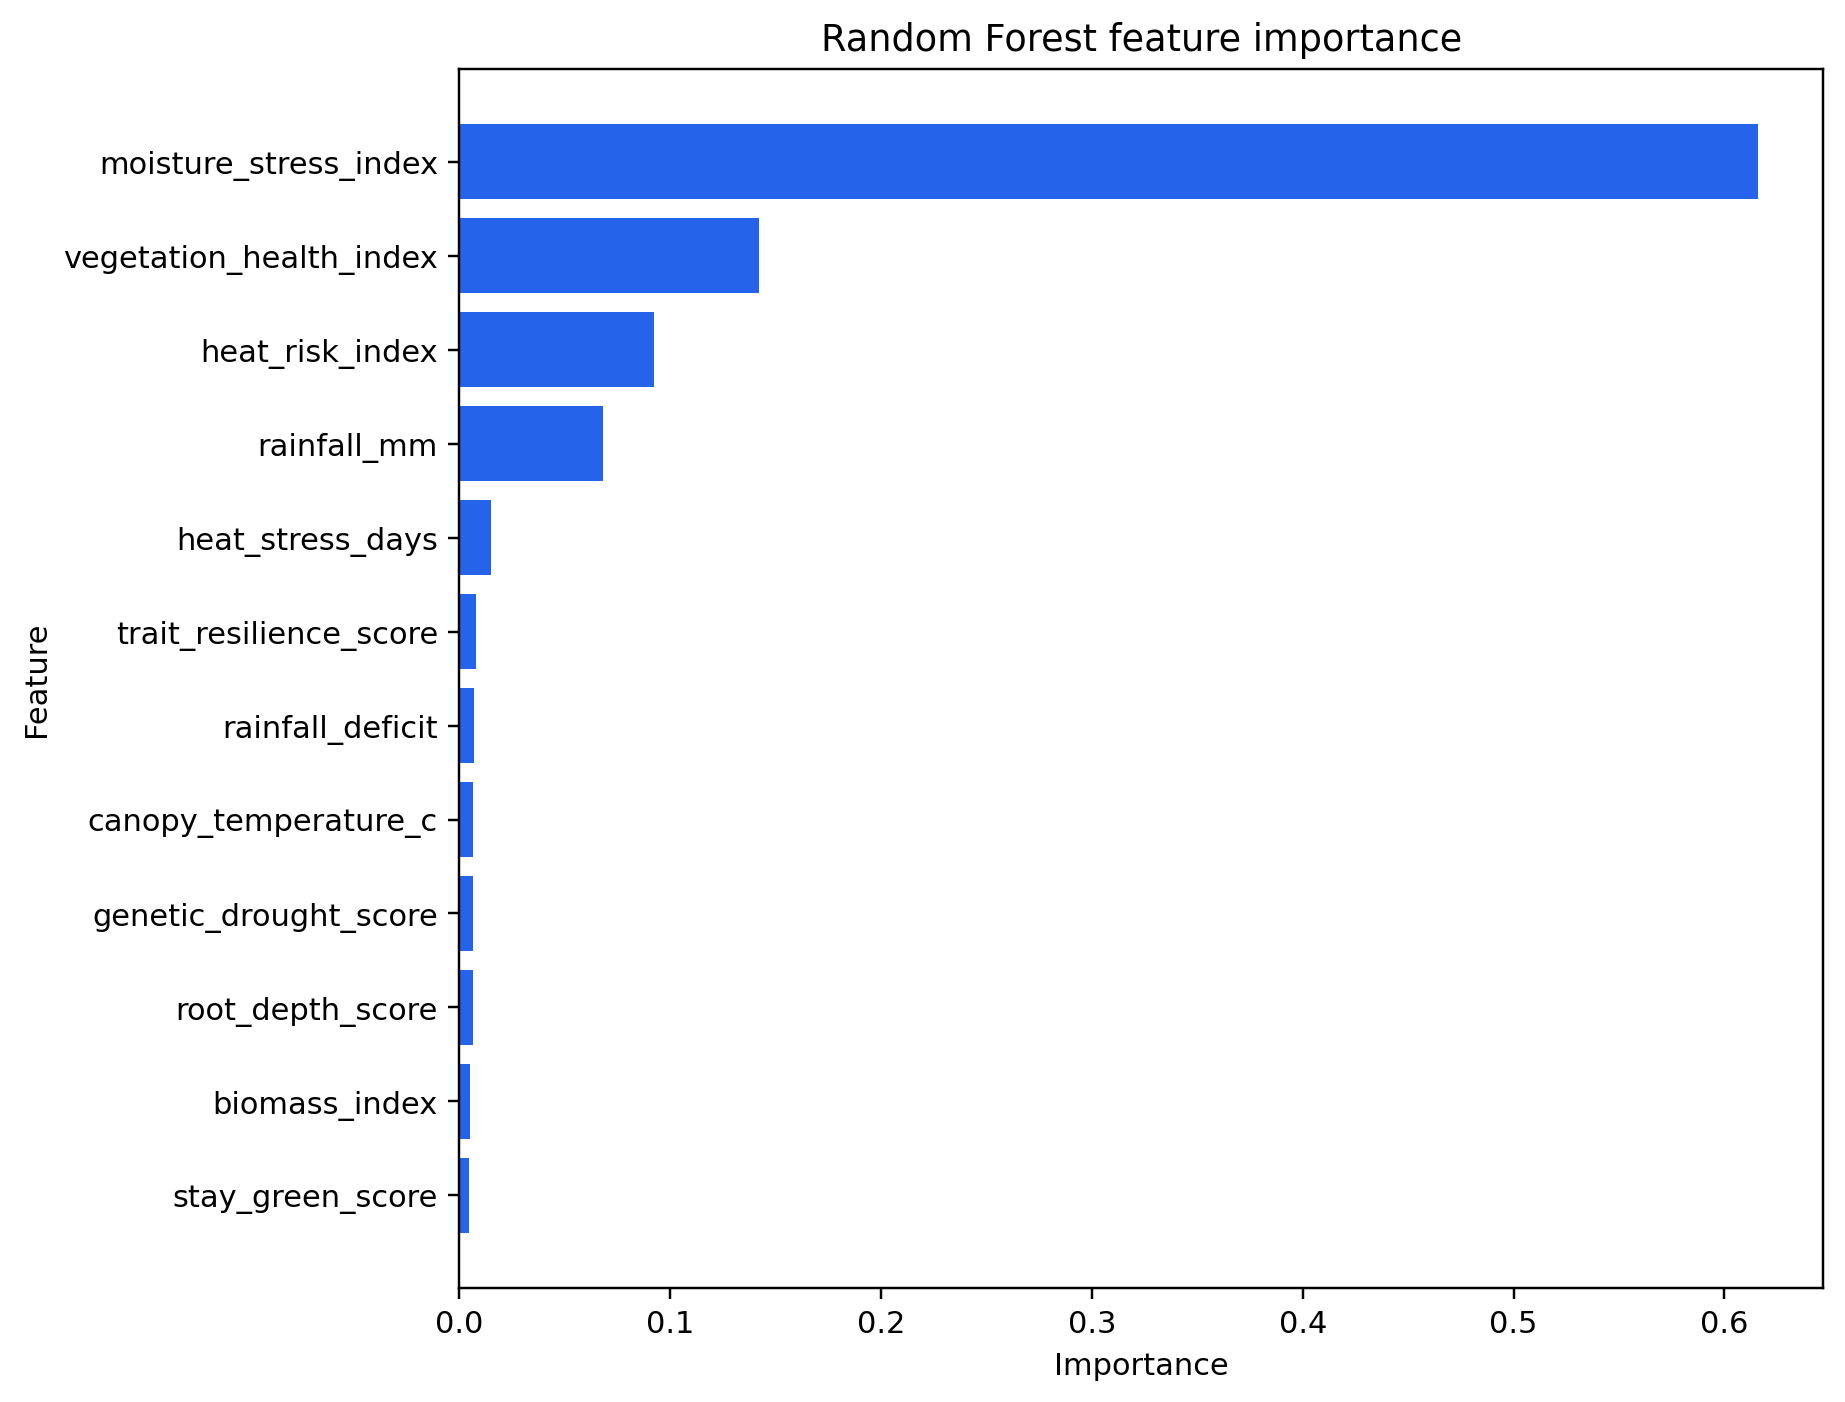
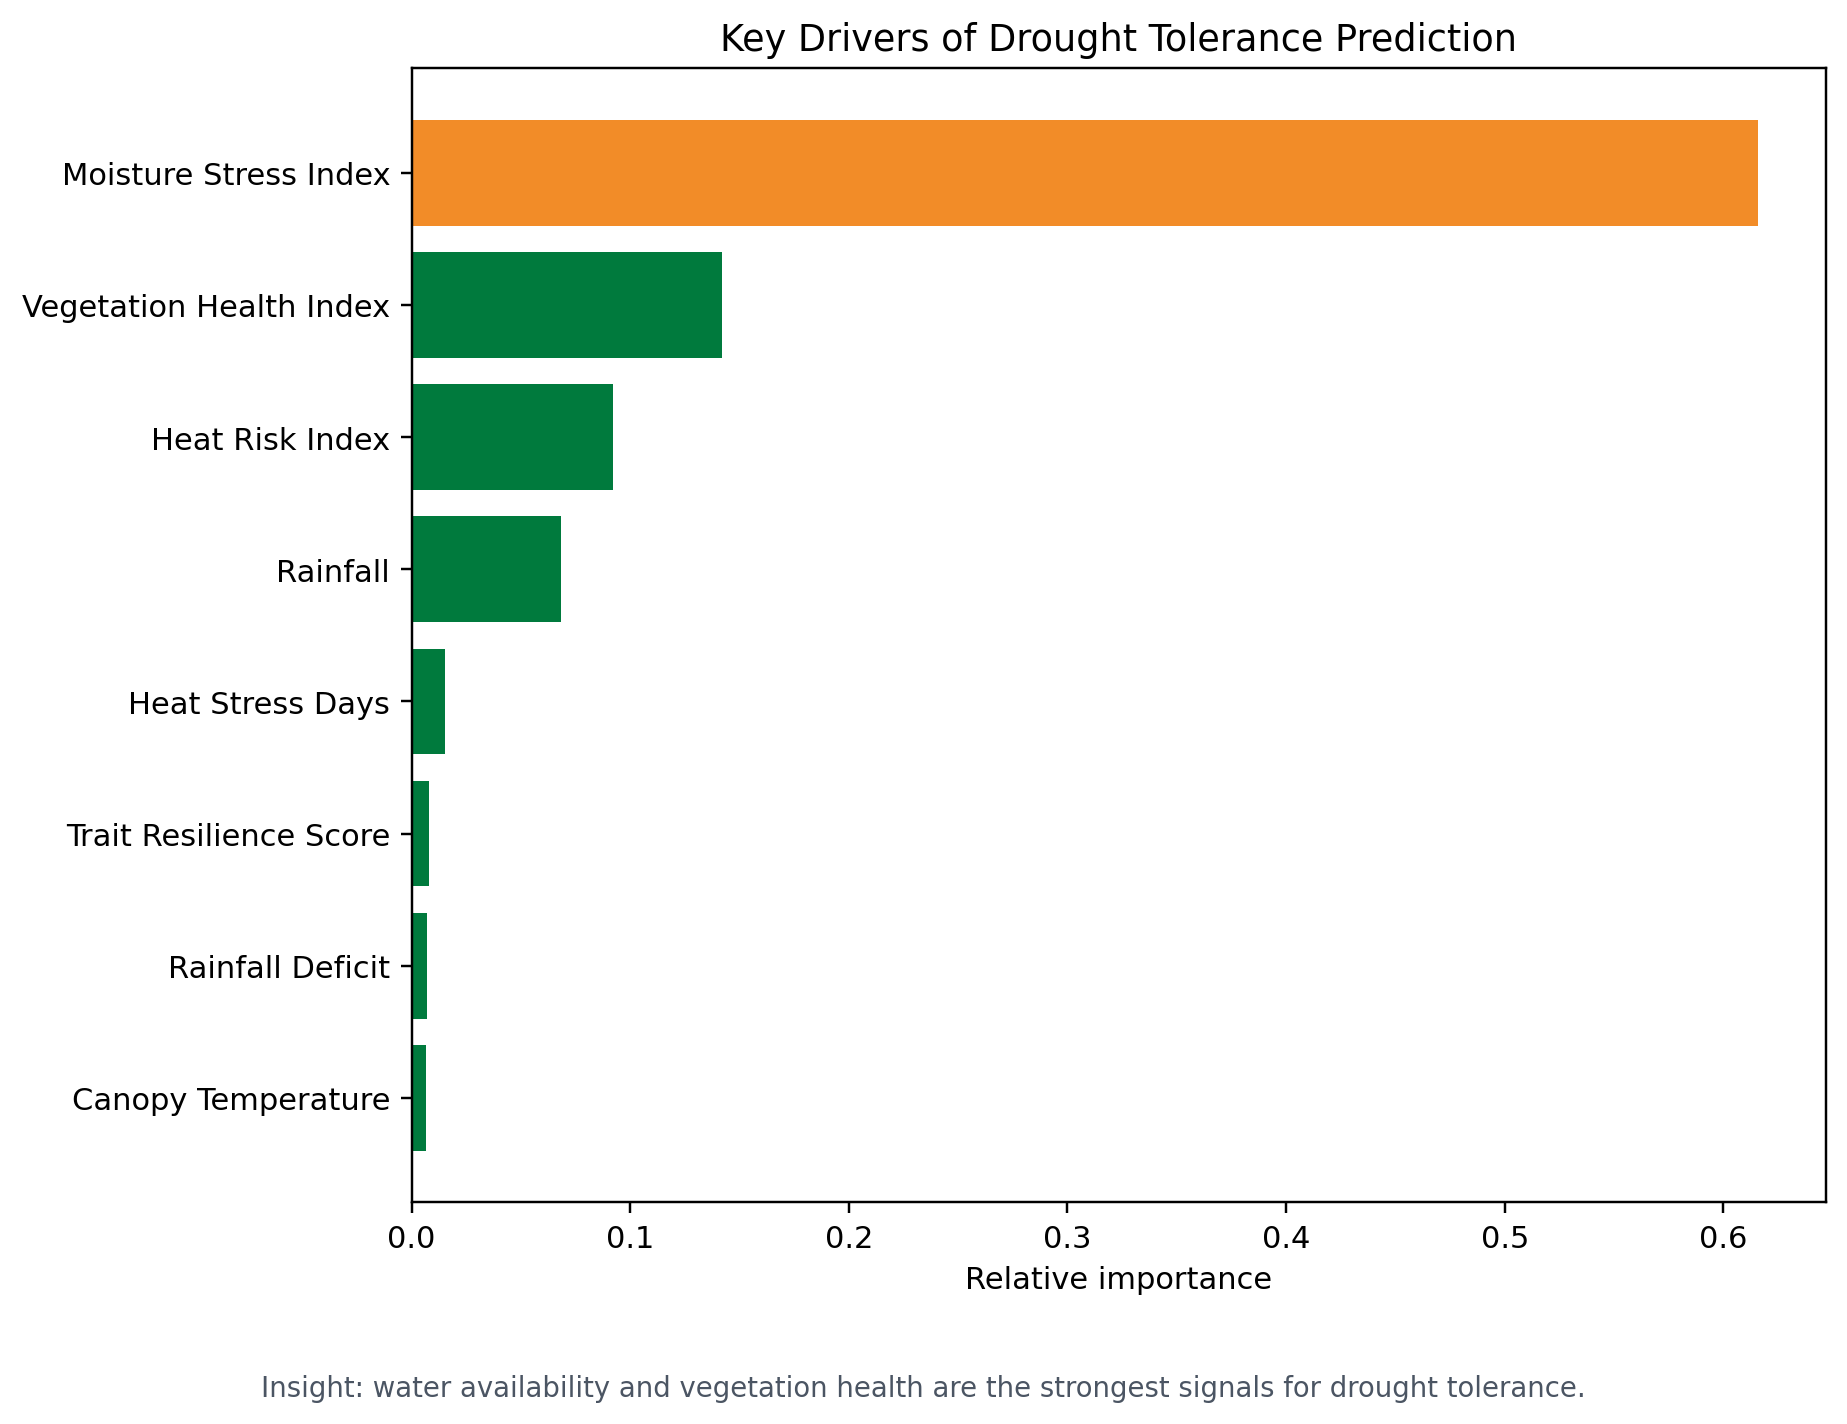
Enhance feature importance visualization and update model metrics; add feature labels and colors for clarity

diff --git a/drought_corn_prototype/app.py b/drought_corn_prototype/app.py
@@ -50,6 +50,32 @@ importance = load_importance().sort_values('importance', ascending=False)
 
 years = sorted(df['year'].unique().tolist())
 locations = sorted(df['location'].unique().tolist())
+KWS_GREEN = '#007a3d'
+KWS_ORANGE = '#f28c28'
+FEATURE_LABELS = {
+    'moisture_stress_index': 'Moisture Stress Index',
+    'vegetation_health_index': 'Vegetation Health Index',
+    'heat_risk_index': 'Heat Risk Index',
+    'rainfall_mm': 'Rainfall',
+    'heat_stress_days': 'Heat Stress Days',
+    'trait_resilience_score': 'Trait Resilience Score',
+    'rainfall_deficit': 'Rainfall Deficit',
+    'canopy_temperature_c': 'Canopy Temperature',
+    'genetic_drought_score': 'Genetic Drought Score',
+    'root_depth_score': 'Root Depth Score',
+    'biomass_index': 'Biomass Index',
+    'stay_green_score': 'Stay-Green Score',
+}
+FEATURE_IMPORTANCE_ORDER = [
+    'moisture_stress_index',
+    'vegetation_health_index',
+    'heat_risk_index',
+    'rainfall_mm',
+    'heat_stress_days',
+    'trait_resilience_score',
+    'rainfall_deficit',
+    'canopy_temperature_c',
+]
 stress_labels = ['Normal', 'Moderate Stress', 'Severe Stress']
 
 st.sidebar.header('Filters')
@@ -111,18 +137,29 @@ st.plotly_chart(fig_scatter, use_container_width=True)
 
 
 st.subheader('Feature importance')
-top_importance = importance.head(12)
+feature_column = 'base_feature' if 'base_feature' in importance.columns else 'feature'
+top_importance = importance[importance[feature_column].isin(FEATURE_IMPORTANCE_ORDER)].copy()
+top_importance['label'] = top_importance[feature_column].map(FEATURE_LABELS).fillna(top_importance[feature_column])
+top_feature = top_importance.sort_values('importance', ascending=False).iloc[0][feature_column]
+top_importance['is_top'] = top_importance[feature_column] == top_feature
+top_importance = top_importance.sort_values('importance', ascending=True)
 fig_importance = px.bar(
-    top_importance.sort_values('importance', ascending=True),
+    top_importance,
     x='importance',
-    y='feature',
+    y='label',
     orientation='h',
-    title='Key drivers of drought tolerance from the trained model',
-    color='importance',
-    color_continuous_scale=['#dbeafe', '#2563eb'],
+    title='Key Drivers of Drought Tolerance Prediction',
+    color='is_top',
+    color_discrete_map={True: KWS_ORANGE, False: KWS_GREEN},
 )
-fig_importance.update_layout(coloraxis_showscale=False, margin=dict(l=20, r=20, t=50, b=20))
+fig_importance.update_layout(
+    showlegend=False,
+    xaxis_title='Relative importance',
+    yaxis_title=None,
+    margin=dict(l=20, r=20, t=50, b=20),
+)
 st.plotly_chart(fig_importance, use_container_width=True)
+st.caption('Insight: water availability and vegetation health are the strongest signals for drought tolerance.')
 
 
 st.subheader('Top recommended varieties')

diff --git a/drought_corn_prototype/build_prototype.py b/drought_corn_prototype/build_prototype.py
@@ -15,6 +15,32 @@ RANDOM_SEED = 42
 STRESS_ORDER = ['Normal', 'Moderate Stress', 'Severe Stress']
 # Updated colors: Normal=green, Moderate=orange, Severe=red
 STRESS_COLORS = {'Normal': '#2ca02c', 'Moderate Stress': '#ff7f0e', 'Severe Stress': '#d62728'}
+KWS_GREEN = '#007a3d'
+KWS_ORANGE = '#f28c28'
+FEATURE_LABELS = {
+    'moisture_stress_index': 'Moisture Stress Index',
+    'vegetation_health_index': 'Vegetation Health Index',
+    'heat_risk_index': 'Heat Risk Index',
+    'rainfall_mm': 'Rainfall',
+    'heat_stress_days': 'Heat Stress Days',
+    'trait_resilience_score': 'Trait Resilience Score',
+    'rainfall_deficit': 'Rainfall Deficit',
+    'canopy_temperature_c': 'Canopy Temperature',
+    'genetic_drought_score': 'Genetic Drought Score',
+    'root_depth_score': 'Root Depth Score',
+    'biomass_index': 'Biomass Index',
+    'stay_green_score': 'Stay-Green Score',
+}
+FEATURE_IMPORTANCE_ORDER = [
+    'moisture_stress_index',
+    'vegetation_health_index',
+    'heat_risk_index',
+    'rainfall_mm',
+    'heat_stress_days',
+    'trait_resilience_score',
+    'rainfall_deficit',
+    'canopy_temperature_c',
+]
 
 
 def safe_one_hot_encoder():
@@ -256,13 +282,21 @@ def save_yield_by_stress_level(frame, fig_dir):
 
 
 def save_feature_importance_plot(aggregated_importance, fig_dir):
-    top = aggregated_importance.head(12).sort_values('importance', ascending=True)
+    display = aggregated_importance[aggregated_importance['base_feature'].isin(FEATURE_IMPORTANCE_ORDER)].copy()
+    if display.empty:
+        return
+    display['label'] = display['base_feature'].map(FEATURE_LABELS).fillna(display['base_feature'])
+    top_feature = display.sort_values('importance', ascending=False).iloc[0]['base_feature']
+    display = display.sort_values('importance', ascending=True)
+    colors = [KWS_ORANGE if feature == top_feature else KWS_GREEN for feature in display['base_feature']]
     fig, ax = plt.subplots(figsize=(8.5, 6.5))
-    ax.barh(top['base_feature'], top['importance'], color='#2563eb')
-    ax.set_title('Random Forest feature importance')
-    ax.set_xlabel('Importance')
-    ax.set_ylabel('Feature')
-    fig.tight_layout()
+    ax.barh(display['label'], display['importance'], color=colors)
+    ax.set_title('Key Drivers of Drought Tolerance Prediction')
+    ax.set_xlabel('Relative importance')
+    ax.set_ylabel('')
+    caption = 'Insight: water availability and vegetation health are the strongest signals for drought tolerance.'
+    fig.tight_layout(rect=[0, 0.06, 1, 1])
+    fig.text(0.5, 0.01, caption, ha='center', va='bottom', fontsize=9, color='#4b5563')
     fig.savefig(fig_dir / 'feature_importance.png', dpi=220, bbox_inches='tight')
     plt.close(fig)
 